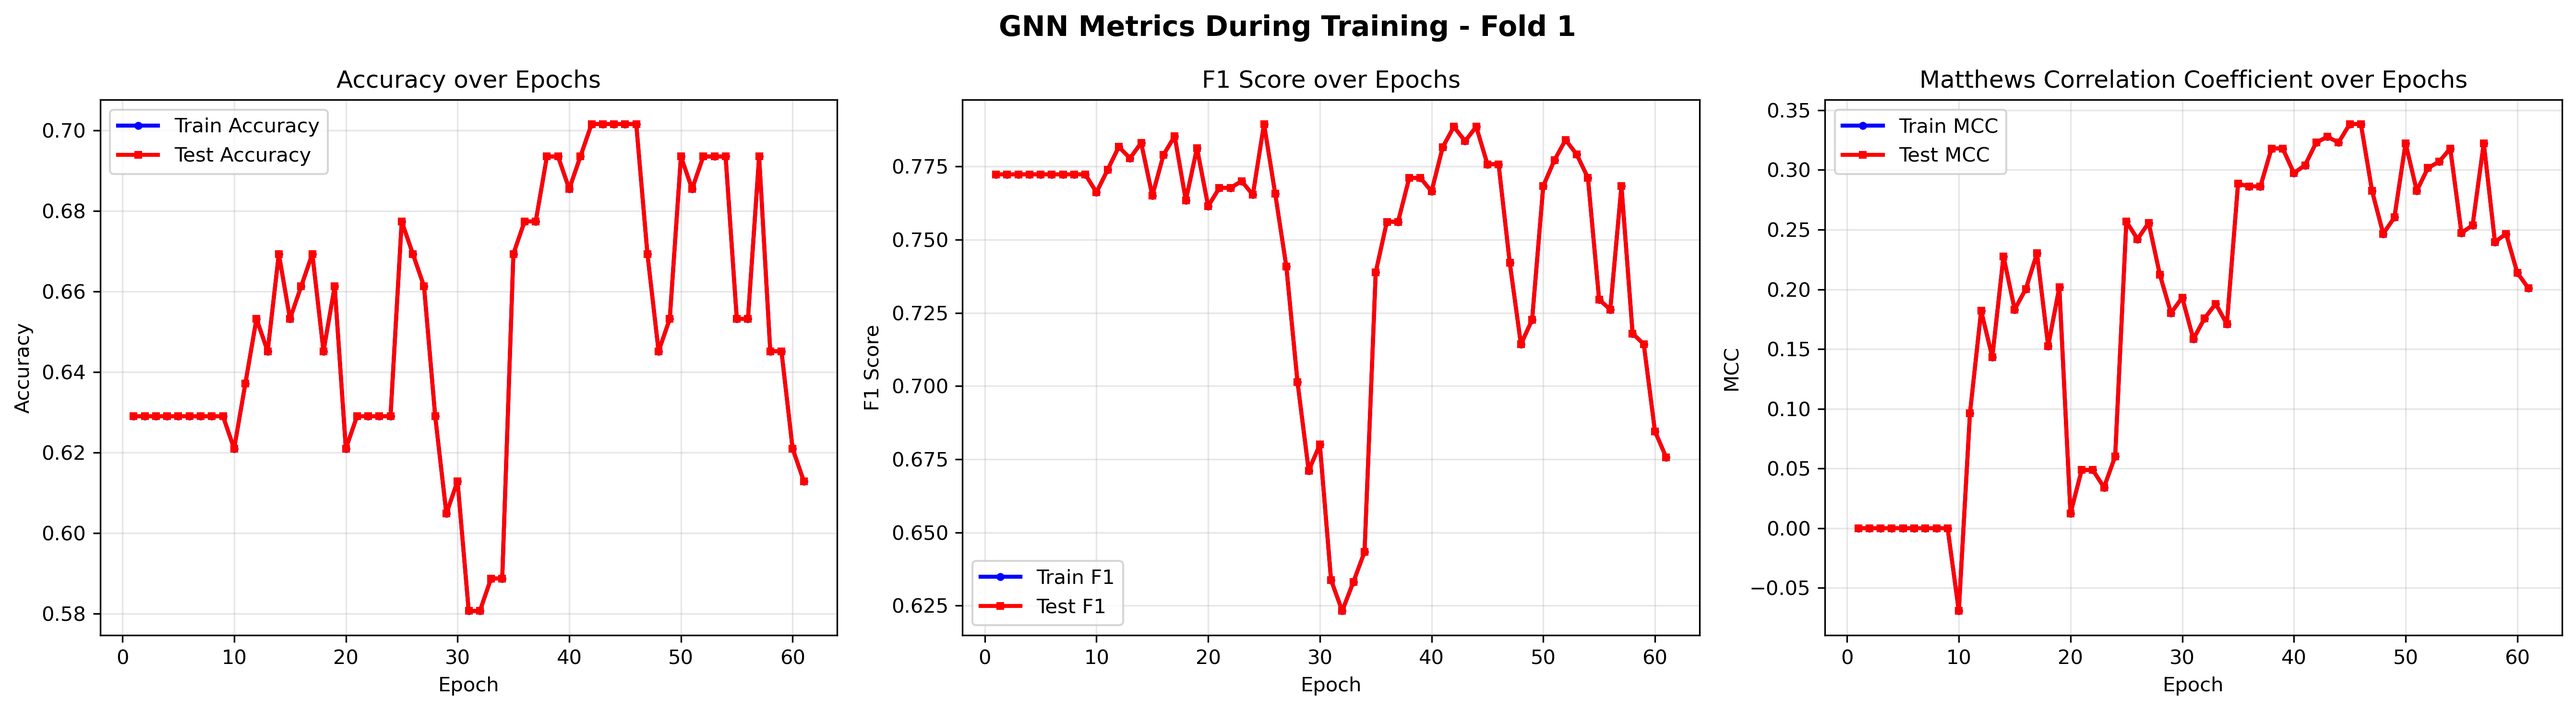
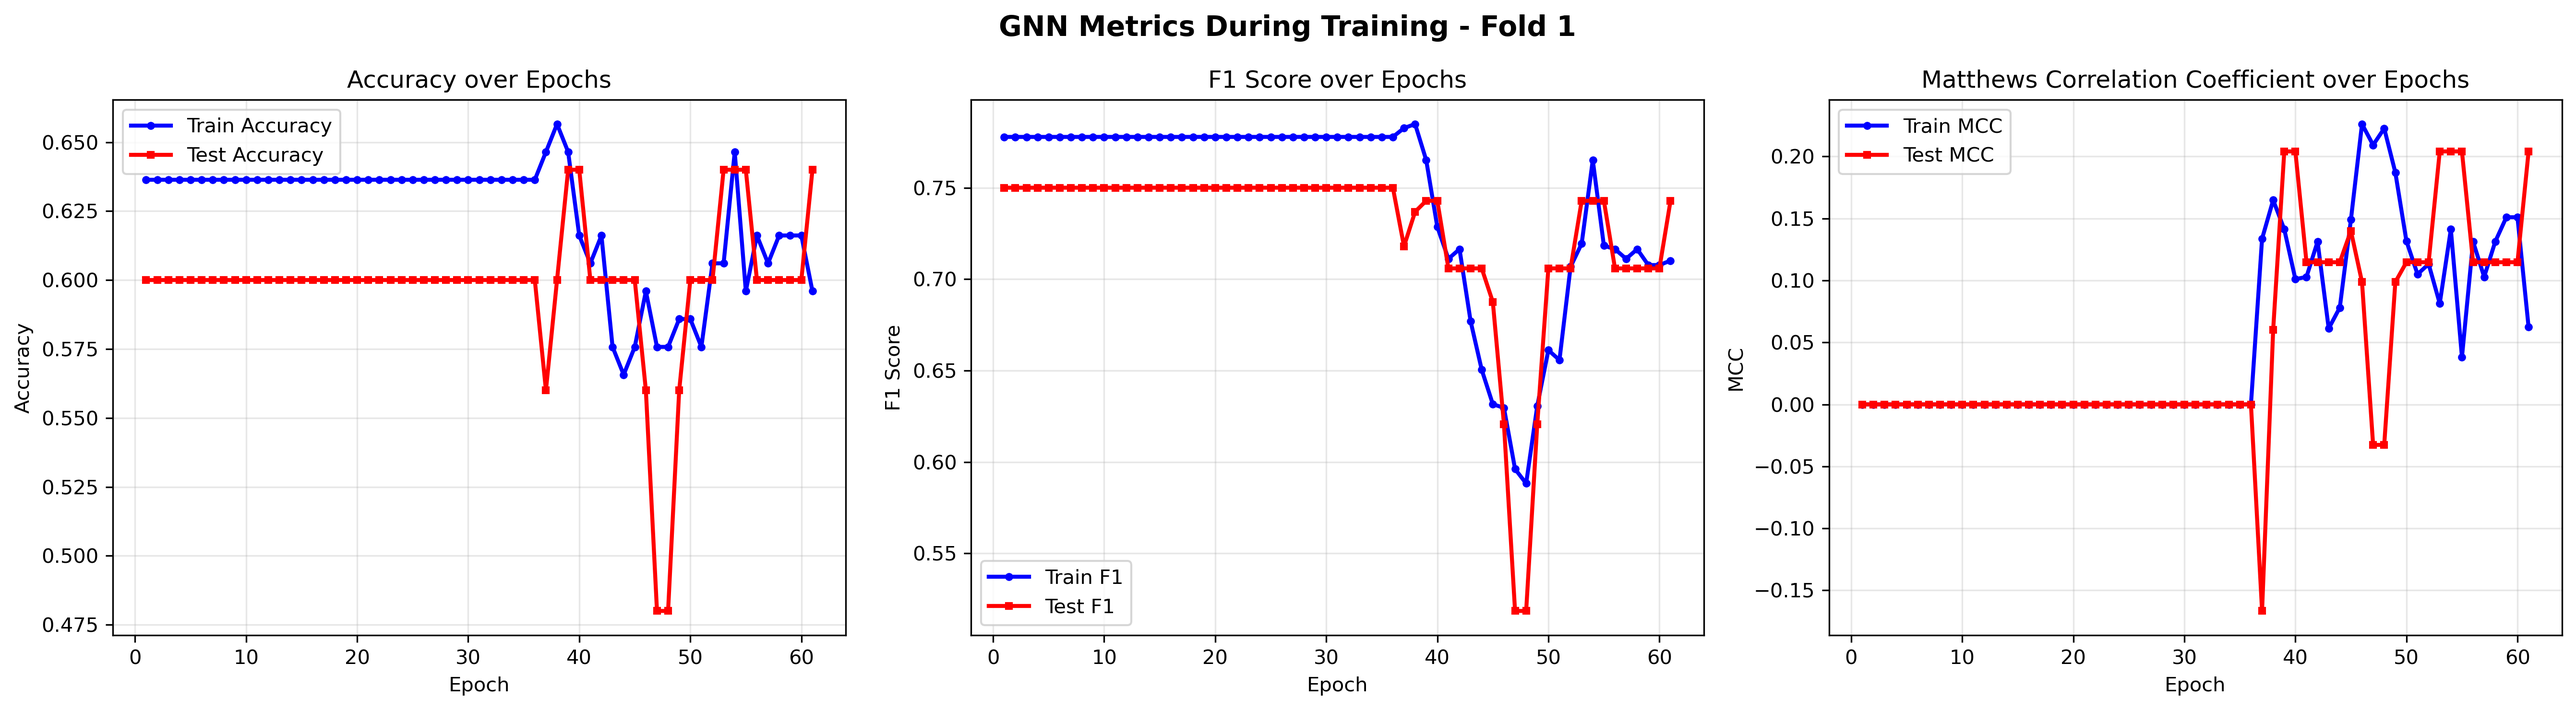
saving best acc + using the skf

diff --git a/08-gnn.py b/08-gnn.py
@@ -1109,7 +1109,7 @@ print("Graph DataFrame columns:")
 print(df_graph.columns)
 #print(df_graph['gnra'])
 gnn_fold_results = []#                                                        removed 'seq' from columns that are dropped
-USE_FULL_DATASET = True   # Set to False to use normal k-fold CV
+USE_FULL_DATASET = False   # Set to False to use normal k-fold CV
 # ────────────────────────────────────────────────────────────────────────────
 
 if USE_FULL_DATASET:
@@ -1157,6 +1157,7 @@ for fold, (train_idx, val_idx) in enumerate(fold_splits):
     
     # Per-fold early stopping
     best_model_state = None
+    best_model_state_by_acc = None
     best_acc = 0.0
     best_f1 = 0.0
     no_improve_counter = 0
@@ -1204,9 +1205,9 @@ for fold, (train_idx, val_idx) in enumerate(fold_splits):
             no_improve_counter = 0
         else:
             no_improve_counter += 1
-        # if test_acc > best_acc:
-        #     best_acc = test_acc
-        #     best_model_state = copy.deepcopy(model.state_dict())
+        if test_acc > best_acc:
+            best_acc = test_acc
+            best_model_state_by_acc = copy.deepcopy(model.state_dict())
         #     no_improve_counter = 0
         # else:
         #     no_improve_counter += 1
